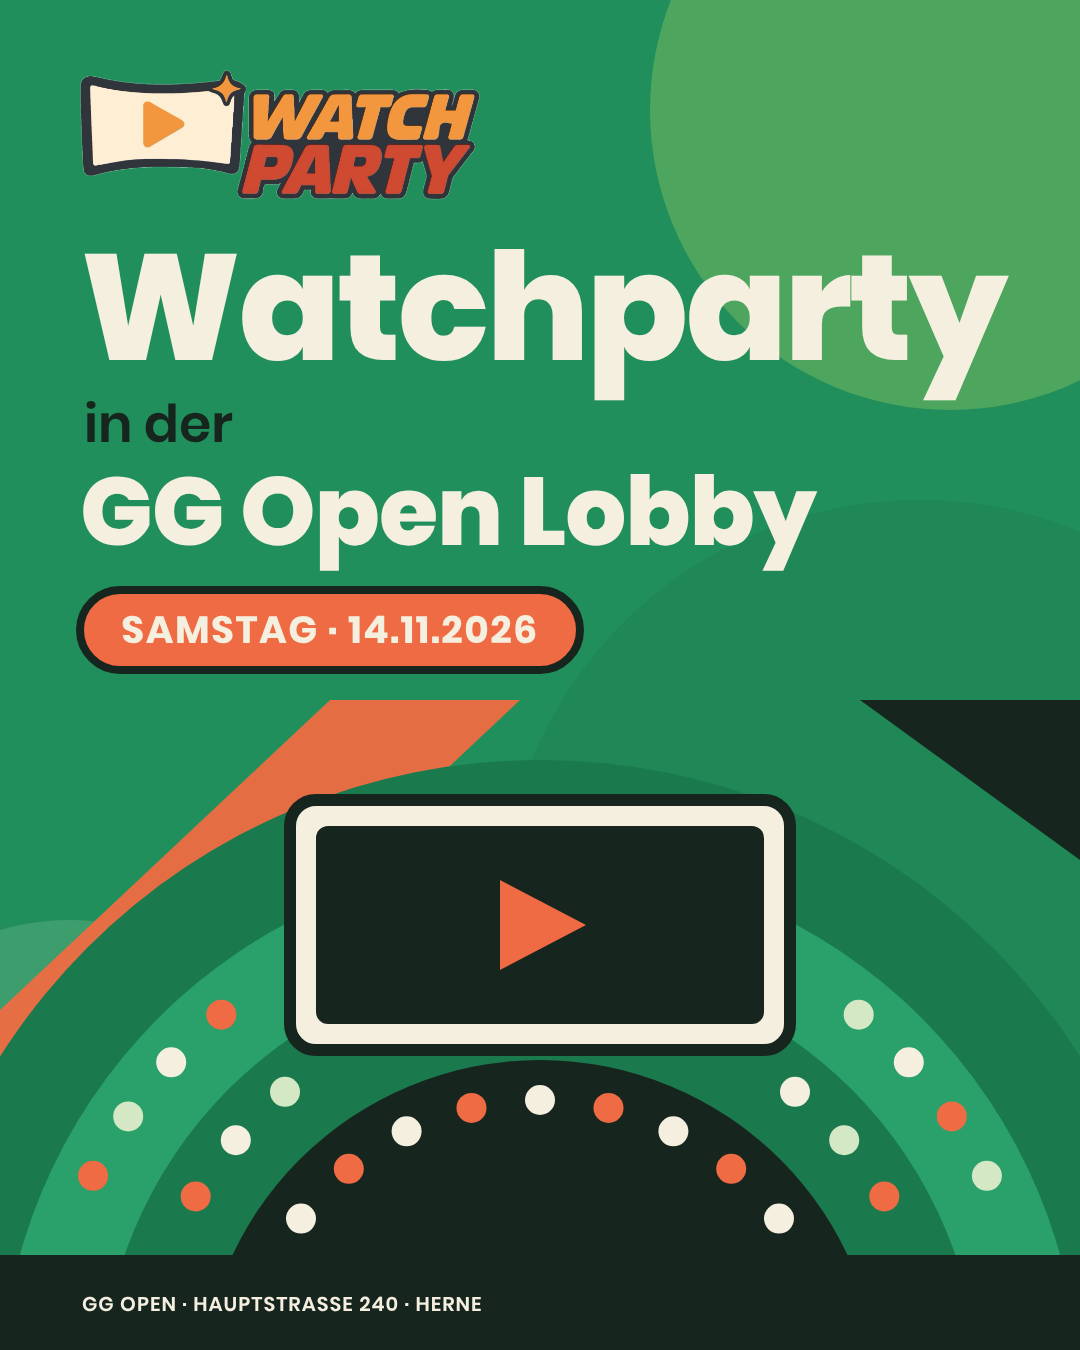
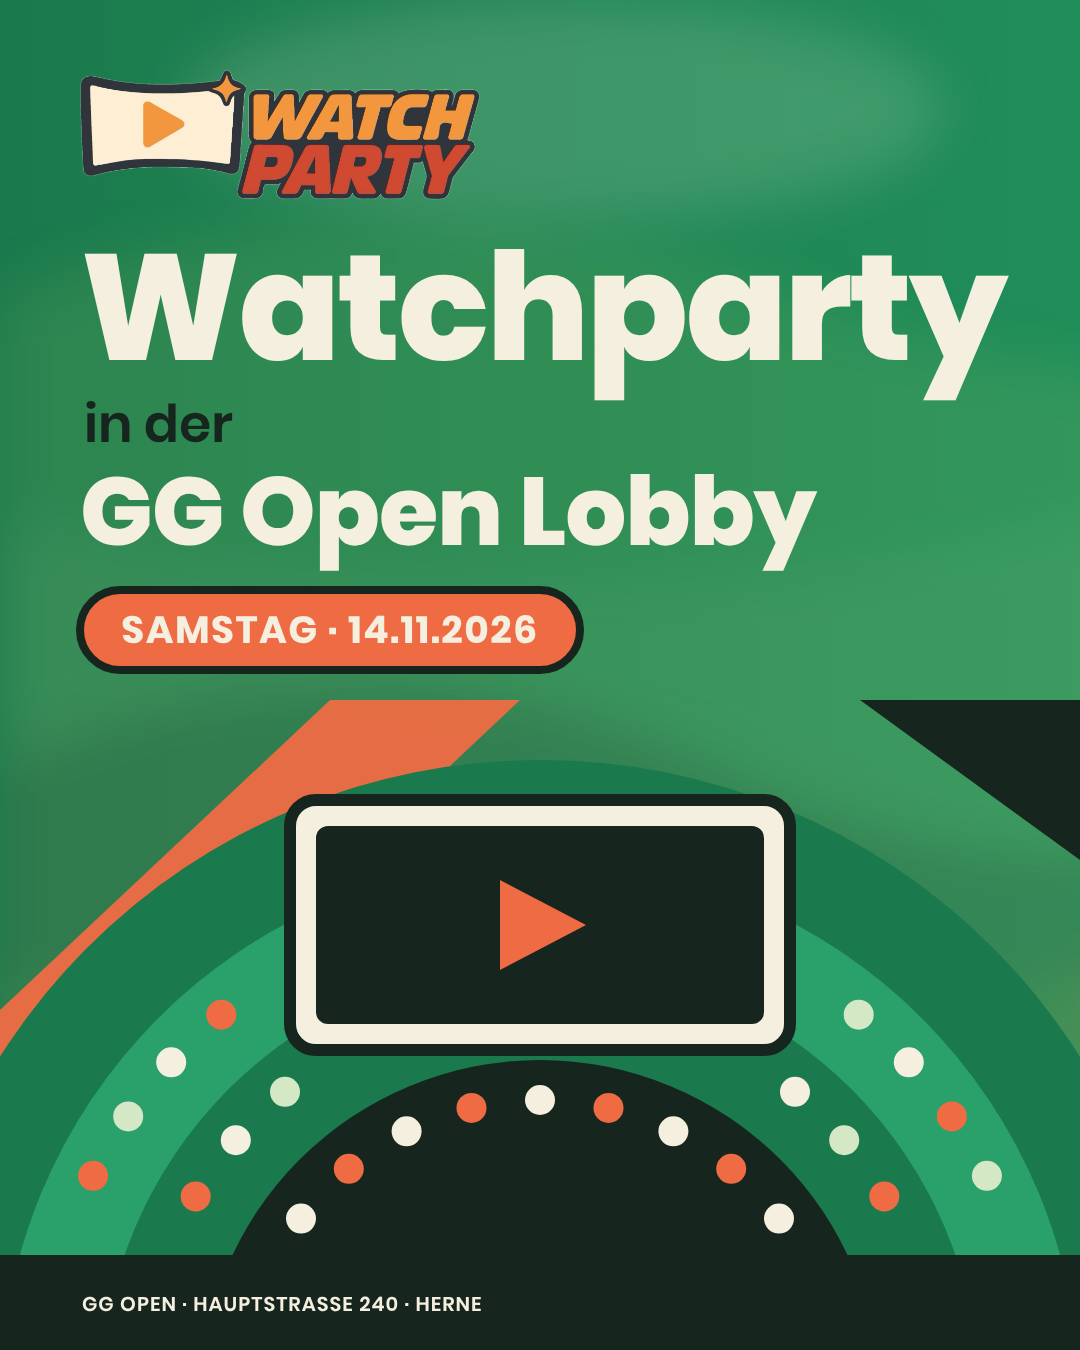
Hintergrund neu: fließendes Panorama über alle 3 Slides (nur PNG, MP4 nach Abnahme)
Claude-Session: https://claude.ai/code/session_01LXFg4n85CFChks2xXqkvPK

diff --git a/preview/slides/slide2.html b/preview/slides/slide2.html
@@ -1,1 +1,1 @@
-<!doctype html><meta charset=utf-8><style>@font-face{font-family:Poppins;font-weight:600;src:url(../../fonts/Poppins/Poppins-SemiBold.ttf)}@font-face{font-family:Poppins;font-weight:700;src:url(../../fonts/Poppins/Poppins-Bold.ttf)}@font-face{font-family:Poppins;font-weight:800;src:url(../../fonts/Poppins/Poppins-ExtraBold.ttf)}html,body{margin:0;background:#218f5b}svg{display:block}</style><svg xmlns="http://www.w3.org/2000/svg" width="1080" height="1350" viewBox="0 0 1080 1350" font-family="Poppins,sans-serif"><rect width="1080" height="1350" fill="#218f5b"/><circle cx="950" cy="110" r="300" fill="#b7d966" opacity=".3"/><circle cx="70" cy="1170" r="250" fill="#d5e8c5" opacity=".16"/><circle cx="920" cy="920" r="420" fill="#17251f" opacity=".07"/><image href="../assets/watchparty_logo_clean.png" x="80" y="70" width="400" height="129.4346978557505"/><rect x="70" y="240" width="940" height="410" rx="34" fill="#f5efdf" stroke="#17251f" stroke-width="10"/><text x="112" y="305" font-size="22" font-weight="600" fill="#cd4a2f" letter-spacing="3">DATUM</text><text x="112" y="363" font-size="54" font-weight="700" fill="#17251f" >Samstag, 14.11.2026</text><text x="112" y="415" font-size="22" font-weight="600" fill="#cd4a2f" letter-spacing="3">UHRZEIT</text><text x="112" y="473" font-size="54" font-weight="700" fill="#17251f" >19:00 / 20:00</text><text x="112" y="525" font-size="22" font-weight="600" fill="#cd4a2f" letter-spacing="3">ORT</text><text x="112" y="583" font-size="54" font-weight="700" fill="#17251f" >Hauptstraße 240, Herne</text><rect x="650" y="92" width="330" height="76" rx="38" fill="#ef6b43" stroke="#17251f" stroke-width="8"/><text x="815" y="141.9" font-size="34" font-weight="700" fill="#f5efdf" text-anchor="middle" letter-spacing="1.5">EINTRITT FREI</text><g><path d="M0 1010 L330 700 H520 L0 1190Z" fill="#ef6b43" opacity=".95"/><path d="M1080 700 V860 L860 700Z" fill="#17251f"/><path d="M-100 1400 A640 640 0 0 1 1180 1400Z" fill="#1b7a4d"/><path d="M0 1400 A540 540 0 0 1 1080 1400Z" fill="#2aa06a"/><path d="M100 1400 A440 440 0 0 1 980 1400Z" fill="#1b7a4d"/><path d="M200 1400 A340 340 0 0 1 880 1400Z" fill="#17251f"/><rect x="290" y="800" width="500" height="250" rx="26" fill="#f5efdf" stroke="#17251f" stroke-width="12"/><rect x="316" y="826" width="448" height="198" rx="12" fill="#17251f"/><path d="M500 880 L500 970 L586 925Z" fill="#ef6b43"/><circle cx="301.0" cy="1218.6" r="15" fill="#f5efdf"/><circle cx="348.8" cy="1168.8" r="15" fill="#ef6b43"/><circle cx="406.6" cy="1131.3" r="15" fill="#f5efdf"/><circle cx="471.5" cy="1107.9" r="15" fill="#ef6b43"/><circle cx="540.0" cy="1100.0" r="15" fill="#f5efdf"/><circle cx="608.5" cy="1107.9" r="15" fill="#ef6b43"/><circle cx="673.4" cy="1131.3" r="15" fill="#f5efdf"/><circle cx="731.2" cy="1168.8" r="15" fill="#ef6b43"/><circle cx="779.0" cy="1218.6" r="15" fill="#f5efdf"/><circle cx="195.7" cy="1196.4" r="15" fill="#ef6b43"/><circle cx="235.8" cy="1140.2" r="15" fill="#f5efdf"/><circle cx="285.0" cy="1091.8" r="15" fill="#d5e8c5"/><circle cx="795.0" cy="1091.8" r="15" fill="#f5efdf"/><circle cx="844.2" cy="1140.2" r="15" fill="#d5e8c5"/><circle cx="884.3" cy="1196.4" r="15" fill="#ef6b43"/><circle cx="93.1" cy="1175.8" r="15" fill="#ef6b43"/><circle cx="128.2" cy="1116.4" r="15" fill="#d5e8c5"/><circle cx="171.2" cy="1062.3" r="15" fill="#f5efdf"/><circle cx="221.3" cy="1014.7" r="15" fill="#ef6b43"/><circle cx="858.7" cy="1014.7" r="15" fill="#d5e8c5"/><circle cx="908.8" cy="1062.3" r="15" fill="#f5efdf"/><circle cx="951.8" cy="1116.4" r="15" fill="#ef6b43"/><circle cx="986.9" cy="1175.8" r="15" fill="#d5e8c5"/></g><rect y="1255" width="1080" height="95" fill="#17251f"/><text x="82" y="1311" font-size="20" font-weight="600" fill="#f5efdf" letter-spacing="1">GG OPEN · HAUPTSTRASSE 240 · HERNE</text></svg>
+<!doctype html><meta charset=utf-8><style>@font-face{font-family:Poppins;font-weight:600;src:url(../../fonts/Poppins/Poppins-SemiBold.ttf)}@font-face{font-family:Poppins;font-weight:700;src:url(../../fonts/Poppins/Poppins-Bold.ttf)}@font-face{font-family:Poppins;font-weight:800;src:url(../../fonts/Poppins/Poppins-ExtraBold.ttf)}html,body{margin:0;background:#218f5b}svg{display:block}</style><svg xmlns="http://www.w3.org/2000/svg" width="1080" height="1350" viewBox="0 0 1080 1350" font-family="Poppins,sans-serif"><svg width="1080" height="1350" viewBox="1080 0 1080 1350"><defs><linearGradient id="pg" x2="1"><stop offset="0" stop-color="#1b7a4d"/><stop offset=".35" stop-color="#218f5b"/><stop offset=".65" stop-color="#23985f"/><stop offset="1" stop-color="#1b7a4d"/></linearGradient><filter id="bl" x="-10%" y="-30%" width="120%" height="160%"><feGaussianBlur stdDeviation="28"/></filter></defs><rect width="3240" height="1350" fill="url(#pg)"/><g filter="url(#bl)"><path d="M0 300 Q405 140 810 300 T1620 300 T2430 300 T3240 300 V1350 H0Z" fill="#b7d966" opacity="0.12"/><path d="M0 520 Q540 650 1080 520 T2160 520 T3240 520 V1350 H0Z" fill="#d5e8c5" opacity="0.06"/><path d="M0 760 Q360 590 720 760 T1440 760 T2160 760 T2880 760 T3600 760 V1350 H0Z" fill="#17251f" opacity="0.16"/><path d="M0 980 Q540 1130 1080 980 T2160 980 T3240 980 V1350 H0Z" fill="#b7d966" opacity="0.1"/><ellipse cx="1620" cy="1000" rx="520" ry="150" fill="#ef6b43" opacity=".22"/><ellipse cx="560" cy="110" rx="380" ry="110" fill="#d5e8c5" opacity=".18"/></g></svg><image href="../assets/watchparty_logo_clean.png" x="80" y="70" width="400" height="129.4346978557505"/><rect x="70" y="240" width="940" height="410" rx="34" fill="#f5efdf" stroke="#17251f" stroke-width="10"/><text x="112" y="305" font-size="22" font-weight="600" fill="#cd4a2f" letter-spacing="3">DATUM</text><text x="112" y="363" font-size="54" font-weight="700" fill="#17251f" >Samstag, 14.11.2026</text><text x="112" y="415" font-size="22" font-weight="600" fill="#cd4a2f" letter-spacing="3">UHRZEIT</text><text x="112" y="473" font-size="54" font-weight="700" fill="#17251f" >19:00 / 20:00</text><text x="112" y="525" font-size="22" font-weight="600" fill="#cd4a2f" letter-spacing="3">ORT</text><text x="112" y="583" font-size="54" font-weight="700" fill="#17251f" >Hauptstraße 240, Herne</text><rect x="650" y="92" width="330" height="76" rx="38" fill="#ef6b43" stroke="#17251f" stroke-width="8"/><text x="815" y="141.9" font-size="34" font-weight="700" fill="#f5efdf" text-anchor="middle" letter-spacing="1.5">EINTRITT FREI</text><g><path d="M0 1010 L330 700 H520 L0 1190Z" fill="#ef6b43" opacity=".95"/><path d="M1080 700 V860 L860 700Z" fill="#17251f"/><path d="M-100 1400 A640 640 0 0 1 1180 1400Z" fill="#1b7a4d"/><path d="M0 1400 A540 540 0 0 1 1080 1400Z" fill="#2aa06a"/><path d="M100 1400 A440 440 0 0 1 980 1400Z" fill="#1b7a4d"/><path d="M200 1400 A340 340 0 0 1 880 1400Z" fill="#17251f"/><rect x="290" y="800" width="500" height="250" rx="26" fill="#f5efdf" stroke="#17251f" stroke-width="12"/><rect x="316" y="826" width="448" height="198" rx="12" fill="#17251f"/><path d="M500 880 L500 970 L586 925Z" fill="#ef6b43"/><circle cx="301.0" cy="1218.6" r="15" fill="#f5efdf"/><circle cx="348.8" cy="1168.8" r="15" fill="#ef6b43"/><circle cx="406.6" cy="1131.3" r="15" fill="#f5efdf"/><circle cx="471.5" cy="1107.9" r="15" fill="#ef6b43"/><circle cx="540.0" cy="1100.0" r="15" fill="#f5efdf"/><circle cx="608.5" cy="1107.9" r="15" fill="#ef6b43"/><circle cx="673.4" cy="1131.3" r="15" fill="#f5efdf"/><circle cx="731.2" cy="1168.8" r="15" fill="#ef6b43"/><circle cx="779.0" cy="1218.6" r="15" fill="#f5efdf"/><circle cx="195.7" cy="1196.4" r="15" fill="#ef6b43"/><circle cx="235.8" cy="1140.2" r="15" fill="#f5efdf"/><circle cx="285.0" cy="1091.8" r="15" fill="#d5e8c5"/><circle cx="795.0" cy="1091.8" r="15" fill="#f5efdf"/><circle cx="844.2" cy="1140.2" r="15" fill="#d5e8c5"/><circle cx="884.3" cy="1196.4" r="15" fill="#ef6b43"/><circle cx="93.1" cy="1175.8" r="15" fill="#ef6b43"/><circle cx="128.2" cy="1116.4" r="15" fill="#d5e8c5"/><circle cx="171.2" cy="1062.3" r="15" fill="#f5efdf"/><circle cx="221.3" cy="1014.7" r="15" fill="#ef6b43"/><circle cx="858.7" cy="1014.7" r="15" fill="#d5e8c5"/><circle cx="908.8" cy="1062.3" r="15" fill="#f5efdf"/><circle cx="951.8" cy="1116.4" r="15" fill="#ef6b43"/><circle cx="986.9" cy="1175.8" r="15" fill="#d5e8c5"/></g><rect y="1255" width="1080" height="95" fill="#17251f"/><text x="82" y="1311" font-size="20" font-weight="600" fill="#f5efdf" letter-spacing="1">GG OPEN · HAUPTSTRASSE 240 · HERNE</text></svg>

diff --git a/preview/slides/slide3.html b/preview/slides/slide3.html
@@ -1,1 +1,1 @@
-<!doctype html><meta charset=utf-8><style>@font-face{font-family:Poppins;font-weight:600;src:url(../../fonts/Poppins/Poppins-SemiBold.ttf)}@font-face{font-family:Poppins;font-weight:700;src:url(../../fonts/Poppins/Poppins-Bold.ttf)}@font-face{font-family:Poppins;font-weight:800;src:url(../../fonts/Poppins/Poppins-ExtraBold.ttf)}html,body{margin:0;background:#218f5b}svg{display:block}</style><svg xmlns="http://www.w3.org/2000/svg" width="1080" height="1350" viewBox="0 0 1080 1350" font-family="Poppins,sans-serif"><rect width="1080" height="1350" fill="#218f5b"/><circle cx="950" cy="110" r="300" fill="#b7d966" opacity=".3"/><circle cx="70" cy="1170" r="250" fill="#d5e8c5" opacity=".16"/><circle cx="920" cy="920" r="420" fill="#17251f" opacity=".07"/><image href="../assets/watchparty_logo_clean.png" x="80" y="70" width="400" height="129.4346978557505"/><text x="80" y="370" font-size="128" font-weight="800" fill="#f5efdf" letter-spacing="-2">Sei dabei.</text><text x="84" y="440" font-size="40" font-weight="600" fill="#17251f" >Watchparty in der GG Open Lobby</text><rect x="80" y="480" width="380" height="84" rx="42" fill="#ef6b43" stroke="#17251f" stroke-width="8"/><text x="270" y="535.3" font-size="38" font-weight="700" fill="#f5efdf" text-anchor="middle" letter-spacing="1.5">EINTRITT FREI</text><text x="82" y="628" font-size="40" font-weight="700" fill="#f5efdf" >Samstag, 14.11.2026 · 19:00 / 20:00</text><text x="82" y="682" font-size="34" font-weight="600" fill="#17251f" >Hauptstraße 240, Herne</text><g><path d="M0 1010 L330 700 H520 L0 1190Z" fill="#ef6b43" opacity=".95"/><path d="M1080 700 V860 L860 700Z" fill="#17251f"/><path d="M-100 1400 A640 640 0 0 1 1180 1400Z" fill="#1b7a4d"/><path d="M0 1400 A540 540 0 0 1 1080 1400Z" fill="#2aa06a"/><path d="M100 1400 A440 440 0 0 1 980 1400Z" fill="#1b7a4d"/><path d="M200 1400 A340 340 0 0 1 880 1400Z" fill="#17251f"/><rect x="290" y="800" width="500" height="250" rx="26" fill="#f5efdf" stroke="#17251f" stroke-width="12"/><rect x="316" y="826" width="448" height="198" rx="12" fill="#17251f"/><path d="M500 880 L500 970 L586 925Z" fill="#ef6b43"/><circle cx="301.0" cy="1218.6" r="15" fill="#f5efdf"/><circle cx="348.8" cy="1168.8" r="15" fill="#ef6b43"/><circle cx="406.6" cy="1131.3" r="15" fill="#f5efdf"/><circle cx="471.5" cy="1107.9" r="15" fill="#ef6b43"/><circle cx="540.0" cy="1100.0" r="15" fill="#f5efdf"/><circle cx="608.5" cy="1107.9" r="15" fill="#ef6b43"/><circle cx="673.4" cy="1131.3" r="15" fill="#f5efdf"/><circle cx="731.2" cy="1168.8" r="15" fill="#ef6b43"/><circle cx="779.0" cy="1218.6" r="15" fill="#f5efdf"/><circle cx="195.7" cy="1196.4" r="15" fill="#ef6b43"/><circle cx="235.8" cy="1140.2" r="15" fill="#f5efdf"/><circle cx="285.0" cy="1091.8" r="15" fill="#d5e8c5"/><circle cx="795.0" cy="1091.8" r="15" fill="#f5efdf"/><circle cx="844.2" cy="1140.2" r="15" fill="#d5e8c5"/><circle cx="884.3" cy="1196.4" r="15" fill="#ef6b43"/><circle cx="93.1" cy="1175.8" r="15" fill="#ef6b43"/><circle cx="128.2" cy="1116.4" r="15" fill="#d5e8c5"/><circle cx="171.2" cy="1062.3" r="15" fill="#f5efdf"/><circle cx="221.3" cy="1014.7" r="15" fill="#ef6b43"/><circle cx="858.7" cy="1014.7" r="15" fill="#d5e8c5"/><circle cx="908.8" cy="1062.3" r="15" fill="#f5efdf"/><circle cx="951.8" cy="1116.4" r="15" fill="#ef6b43"/><circle cx="986.9" cy="1175.8" r="15" fill="#d5e8c5"/></g><rect y="1255" width="1080" height="95" fill="#17251f"/><text x="82" y="1311" font-size="20" font-weight="600" fill="#f5efdf" letter-spacing="1">GG OPEN · HAUPTSTRASSE 240 · HERNE</text></svg>
+<!doctype html><meta charset=utf-8><style>@font-face{font-family:Poppins;font-weight:600;src:url(../../fonts/Poppins/Poppins-SemiBold.ttf)}@font-face{font-family:Poppins;font-weight:700;src:url(../../fonts/Poppins/Poppins-Bold.ttf)}@font-face{font-family:Poppins;font-weight:800;src:url(../../fonts/Poppins/Poppins-ExtraBold.ttf)}html,body{margin:0;background:#218f5b}svg{display:block}</style><svg xmlns="http://www.w3.org/2000/svg" width="1080" height="1350" viewBox="0 0 1080 1350" font-family="Poppins,sans-serif"><svg width="1080" height="1350" viewBox="2160 0 1080 1350"><defs><linearGradient id="pg" x2="1"><stop offset="0" stop-color="#1b7a4d"/><stop offset=".35" stop-color="#218f5b"/><stop offset=".65" stop-color="#23985f"/><stop offset="1" stop-color="#1b7a4d"/></linearGradient><filter id="bl" x="-10%" y="-30%" width="120%" height="160%"><feGaussianBlur stdDeviation="28"/></filter></defs><rect width="3240" height="1350" fill="url(#pg)"/><g filter="url(#bl)"><path d="M0 300 Q405 140 810 300 T1620 300 T2430 300 T3240 300 V1350 H0Z" fill="#b7d966" opacity="0.12"/><path d="M0 520 Q540 650 1080 520 T2160 520 T3240 520 V1350 H0Z" fill="#d5e8c5" opacity="0.06"/><path d="M0 760 Q360 590 720 760 T1440 760 T2160 760 T2880 760 T3600 760 V1350 H0Z" fill="#17251f" opacity="0.16"/><path d="M0 980 Q540 1130 1080 980 T2160 980 T3240 980 V1350 H0Z" fill="#b7d966" opacity="0.1"/><ellipse cx="1620" cy="1000" rx="520" ry="150" fill="#ef6b43" opacity=".22"/><ellipse cx="560" cy="110" rx="380" ry="110" fill="#d5e8c5" opacity=".18"/></g></svg><image href="../assets/watchparty_logo_clean.png" x="80" y="70" width="400" height="129.4346978557505"/><text x="80" y="370" font-size="128" font-weight="800" fill="#f5efdf" letter-spacing="-2">Sei dabei.</text><text x="84" y="440" font-size="40" font-weight="600" fill="#17251f" >Watchparty in der GG Open Lobby</text><rect x="80" y="480" width="380" height="84" rx="42" fill="#ef6b43" stroke="#17251f" stroke-width="8"/><text x="270" y="535.3" font-size="38" font-weight="700" fill="#f5efdf" text-anchor="middle" letter-spacing="1.5">EINTRITT FREI</text><text x="82" y="628" font-size="40" font-weight="700" fill="#f5efdf" >Samstag, 14.11.2026 · 19:00 / 20:00</text><text x="82" y="682" font-size="34" font-weight="600" fill="#17251f" >Hauptstraße 240, Herne</text><g><path d="M0 1010 L330 700 H520 L0 1190Z" fill="#ef6b43" opacity=".95"/><path d="M1080 700 V860 L860 700Z" fill="#17251f"/><path d="M-100 1400 A640 640 0 0 1 1180 1400Z" fill="#1b7a4d"/><path d="M0 1400 A540 540 0 0 1 1080 1400Z" fill="#2aa06a"/><path d="M100 1400 A440 440 0 0 1 980 1400Z" fill="#1b7a4d"/><path d="M200 1400 A340 340 0 0 1 880 1400Z" fill="#17251f"/><rect x="290" y="800" width="500" height="250" rx="26" fill="#f5efdf" stroke="#17251f" stroke-width="12"/><rect x="316" y="826" width="448" height="198" rx="12" fill="#17251f"/><path d="M500 880 L500 970 L586 925Z" fill="#ef6b43"/><circle cx="301.0" cy="1218.6" r="15" fill="#f5efdf"/><circle cx="348.8" cy="1168.8" r="15" fill="#ef6b43"/><circle cx="406.6" cy="1131.3" r="15" fill="#f5efdf"/><circle cx="471.5" cy="1107.9" r="15" fill="#ef6b43"/><circle cx="540.0" cy="1100.0" r="15" fill="#f5efdf"/><circle cx="608.5" cy="1107.9" r="15" fill="#ef6b43"/><circle cx="673.4" cy="1131.3" r="15" fill="#f5efdf"/><circle cx="731.2" cy="1168.8" r="15" fill="#ef6b43"/><circle cx="779.0" cy="1218.6" r="15" fill="#f5efdf"/><circle cx="195.7" cy="1196.4" r="15" fill="#ef6b43"/><circle cx="235.8" cy="1140.2" r="15" fill="#f5efdf"/><circle cx="285.0" cy="1091.8" r="15" fill="#d5e8c5"/><circle cx="795.0" cy="1091.8" r="15" fill="#f5efdf"/><circle cx="844.2" cy="1140.2" r="15" fill="#d5e8c5"/><circle cx="884.3" cy="1196.4" r="15" fill="#ef6b43"/><circle cx="93.1" cy="1175.8" r="15" fill="#ef6b43"/><circle cx="128.2" cy="1116.4" r="15" fill="#d5e8c5"/><circle cx="171.2" cy="1062.3" r="15" fill="#f5efdf"/><circle cx="221.3" cy="1014.7" r="15" fill="#ef6b43"/><circle cx="858.7" cy="1014.7" r="15" fill="#d5e8c5"/><circle cx="908.8" cy="1062.3" r="15" fill="#f5efdf"/><circle cx="951.8" cy="1116.4" r="15" fill="#ef6b43"/><circle cx="986.9" cy="1175.8" r="15" fill="#d5e8c5"/></g><rect y="1255" width="1080" height="95" fill="#17251f"/><text x="82" y="1311" font-size="20" font-weight="600" fill="#f5efdf" letter-spacing="1">GG OPEN · HAUPTSTRASSE 240 · HERNE</text></svg>

diff --git a/preview/slides/slide1.html b/preview/slides/slide1.html
@@ -1,1 +1,1 @@
-<!doctype html><meta charset=utf-8><style>@font-face{font-family:Poppins;font-weight:600;src:url(../../fonts/Poppins/Poppins-SemiBold.ttf)}@font-face{font-family:Poppins;font-weight:700;src:url(../../fonts/Poppins/Poppins-Bold.ttf)}@font-face{font-family:Poppins;font-weight:800;src:url(../../fonts/Poppins/Poppins-ExtraBold.ttf)}html,body{margin:0;background:#218f5b}svg{display:block}</style><svg xmlns="http://www.w3.org/2000/svg" width="1080" height="1350" viewBox="0 0 1080 1350" font-family="Poppins,sans-serif"><rect width="1080" height="1350" fill="#218f5b"/><circle cx="950" cy="110" r="300" fill="#b7d966" opacity=".3"/><circle cx="70" cy="1170" r="250" fill="#d5e8c5" opacity=".16"/><circle cx="920" cy="920" r="420" fill="#17251f" opacity=".07"/><image href="../assets/watchparty_logo_clean.png" x="80" y="70" width="400" height="129.4346978557505"/><text x="80" y="360" font-size="150" font-weight="800" fill="#f5efdf" letter-spacing="-3">Watchparty</text><text x="84" y="442" font-size="52" font-weight="600" fill="#17251f" >in der</text><text x="80" y="545" font-size="96" font-weight="800" fill="#f5efdf" letter-spacing="-1">GG Open Lobby</text><rect x="80" y="590" width="500" height="80" rx="40" fill="#ef6b43" stroke="#17251f" stroke-width="8"/><text x="330" y="643.3" font-size="38" font-weight="700" fill="#f5efdf" text-anchor="middle" letter-spacing="1.5">SAMSTAG · 14.11.2026</text><g><path d="M0 1010 L330 700 H520 L0 1190Z" fill="#ef6b43" opacity=".95"/><path d="M1080 700 V860 L860 700Z" fill="#17251f"/><path d="M-100 1400 A640 640 0 0 1 1180 1400Z" fill="#1b7a4d"/><path d="M0 1400 A540 540 0 0 1 1080 1400Z" fill="#2aa06a"/><path d="M100 1400 A440 440 0 0 1 980 1400Z" fill="#1b7a4d"/><path d="M200 1400 A340 340 0 0 1 880 1400Z" fill="#17251f"/><rect x="290" y="800" width="500" height="250" rx="26" fill="#f5efdf" stroke="#17251f" stroke-width="12"/><rect x="316" y="826" width="448" height="198" rx="12" fill="#17251f"/><path d="M500 880 L500 970 L586 925Z" fill="#ef6b43"/><circle cx="301.0" cy="1218.6" r="15" fill="#f5efdf"/><circle cx="348.8" cy="1168.8" r="15" fill="#ef6b43"/><circle cx="406.6" cy="1131.3" r="15" fill="#f5efdf"/><circle cx="471.5" cy="1107.9" r="15" fill="#ef6b43"/><circle cx="540.0" cy="1100.0" r="15" fill="#f5efdf"/><circle cx="608.5" cy="1107.9" r="15" fill="#ef6b43"/><circle cx="673.4" cy="1131.3" r="15" fill="#f5efdf"/><circle cx="731.2" cy="1168.8" r="15" fill="#ef6b43"/><circle cx="779.0" cy="1218.6" r="15" fill="#f5efdf"/><circle cx="195.7" cy="1196.4" r="15" fill="#ef6b43"/><circle cx="235.8" cy="1140.2" r="15" fill="#f5efdf"/><circle cx="285.0" cy="1091.8" r="15" fill="#d5e8c5"/><circle cx="795.0" cy="1091.8" r="15" fill="#f5efdf"/><circle cx="844.2" cy="1140.2" r="15" fill="#d5e8c5"/><circle cx="884.3" cy="1196.4" r="15" fill="#ef6b43"/><circle cx="93.1" cy="1175.8" r="15" fill="#ef6b43"/><circle cx="128.2" cy="1116.4" r="15" fill="#d5e8c5"/><circle cx="171.2" cy="1062.3" r="15" fill="#f5efdf"/><circle cx="221.3" cy="1014.7" r="15" fill="#ef6b43"/><circle cx="858.7" cy="1014.7" r="15" fill="#d5e8c5"/><circle cx="908.8" cy="1062.3" r="15" fill="#f5efdf"/><circle cx="951.8" cy="1116.4" r="15" fill="#ef6b43"/><circle cx="986.9" cy="1175.8" r="15" fill="#d5e8c5"/></g><rect y="1255" width="1080" height="95" fill="#17251f"/><text x="82" y="1311" font-size="20" font-weight="600" fill="#f5efdf" letter-spacing="1">GG OPEN · HAUPTSTRASSE 240 · HERNE</text></svg>
+<!doctype html><meta charset=utf-8><style>@font-face{font-family:Poppins;font-weight:600;src:url(../../fonts/Poppins/Poppins-SemiBold.ttf)}@font-face{font-family:Poppins;font-weight:700;src:url(../../fonts/Poppins/Poppins-Bold.ttf)}@font-face{font-family:Poppins;font-weight:800;src:url(../../fonts/Poppins/Poppins-ExtraBold.ttf)}html,body{margin:0;background:#218f5b}svg{display:block}</style><svg xmlns="http://www.w3.org/2000/svg" width="1080" height="1350" viewBox="0 0 1080 1350" font-family="Poppins,sans-serif"><svg width="1080" height="1350" viewBox="0 0 1080 1350"><defs><linearGradient id="pg" x2="1"><stop offset="0" stop-color="#1b7a4d"/><stop offset=".35" stop-color="#218f5b"/><stop offset=".65" stop-color="#23985f"/><stop offset="1" stop-color="#1b7a4d"/></linearGradient><filter id="bl" x="-10%" y="-30%" width="120%" height="160%"><feGaussianBlur stdDeviation="28"/></filter></defs><rect width="3240" height="1350" fill="url(#pg)"/><g filter="url(#bl)"><path d="M0 300 Q405 140 810 300 T1620 300 T2430 300 T3240 300 V1350 H0Z" fill="#b7d966" opacity="0.12"/><path d="M0 520 Q540 650 1080 520 T2160 520 T3240 520 V1350 H0Z" fill="#d5e8c5" opacity="0.06"/><path d="M0 760 Q360 590 720 760 T1440 760 T2160 760 T2880 760 T3600 760 V1350 H0Z" fill="#17251f" opacity="0.16"/><path d="M0 980 Q540 1130 1080 980 T2160 980 T3240 980 V1350 H0Z" fill="#b7d966" opacity="0.1"/><ellipse cx="1620" cy="1000" rx="520" ry="150" fill="#ef6b43" opacity=".22"/><ellipse cx="560" cy="110" rx="380" ry="110" fill="#d5e8c5" opacity=".18"/></g></svg><image href="../assets/watchparty_logo_clean.png" x="80" y="70" width="400" height="129.4346978557505"/><text x="80" y="360" font-size="150" font-weight="800" fill="#f5efdf" letter-spacing="-3">Watchparty</text><text x="84" y="442" font-size="52" font-weight="600" fill="#17251f" >in der</text><text x="80" y="545" font-size="96" font-weight="800" fill="#f5efdf" letter-spacing="-1">GG Open Lobby</text><rect x="80" y="590" width="500" height="80" rx="40" fill="#ef6b43" stroke="#17251f" stroke-width="8"/><text x="330" y="643.3" font-size="38" font-weight="700" fill="#f5efdf" text-anchor="middle" letter-spacing="1.5">SAMSTAG · 14.11.2026</text><g><path d="M0 1010 L330 700 H520 L0 1190Z" fill="#ef6b43" opacity=".95"/><path d="M1080 700 V860 L860 700Z" fill="#17251f"/><path d="M-100 1400 A640 640 0 0 1 1180 1400Z" fill="#1b7a4d"/><path d="M0 1400 A540 540 0 0 1 1080 1400Z" fill="#2aa06a"/><path d="M100 1400 A440 440 0 0 1 980 1400Z" fill="#1b7a4d"/><path d="M200 1400 A340 340 0 0 1 880 1400Z" fill="#17251f"/><rect x="290" y="800" width="500" height="250" rx="26" fill="#f5efdf" stroke="#17251f" stroke-width="12"/><rect x="316" y="826" width="448" height="198" rx="12" fill="#17251f"/><path d="M500 880 L500 970 L586 925Z" fill="#ef6b43"/><circle cx="301.0" cy="1218.6" r="15" fill="#f5efdf"/><circle cx="348.8" cy="1168.8" r="15" fill="#ef6b43"/><circle cx="406.6" cy="1131.3" r="15" fill="#f5efdf"/><circle cx="471.5" cy="1107.9" r="15" fill="#ef6b43"/><circle cx="540.0" cy="1100.0" r="15" fill="#f5efdf"/><circle cx="608.5" cy="1107.9" r="15" fill="#ef6b43"/><circle cx="673.4" cy="1131.3" r="15" fill="#f5efdf"/><circle cx="731.2" cy="1168.8" r="15" fill="#ef6b43"/><circle cx="779.0" cy="1218.6" r="15" fill="#f5efdf"/><circle cx="195.7" cy="1196.4" r="15" fill="#ef6b43"/><circle cx="235.8" cy="1140.2" r="15" fill="#f5efdf"/><circle cx="285.0" cy="1091.8" r="15" fill="#d5e8c5"/><circle cx="795.0" cy="1091.8" r="15" fill="#f5efdf"/><circle cx="844.2" cy="1140.2" r="15" fill="#d5e8c5"/><circle cx="884.3" cy="1196.4" r="15" fill="#ef6b43"/><circle cx="93.1" cy="1175.8" r="15" fill="#ef6b43"/><circle cx="128.2" cy="1116.4" r="15" fill="#d5e8c5"/><circle cx="171.2" cy="1062.3" r="15" fill="#f5efdf"/><circle cx="221.3" cy="1014.7" r="15" fill="#ef6b43"/><circle cx="858.7" cy="1014.7" r="15" fill="#d5e8c5"/><circle cx="908.8" cy="1062.3" r="15" fill="#f5efdf"/><circle cx="951.8" cy="1116.4" r="15" fill="#ef6b43"/><circle cx="986.9" cy="1175.8" r="15" fill="#d5e8c5"/></g><rect y="1255" width="1080" height="95" fill="#17251f"/><text x="82" y="1311" font-size="20" font-weight="600" fill="#f5efdf" letter-spacing="1">GG OPEN · HAUPTSTRASSE 240 · HERNE</text></svg>
